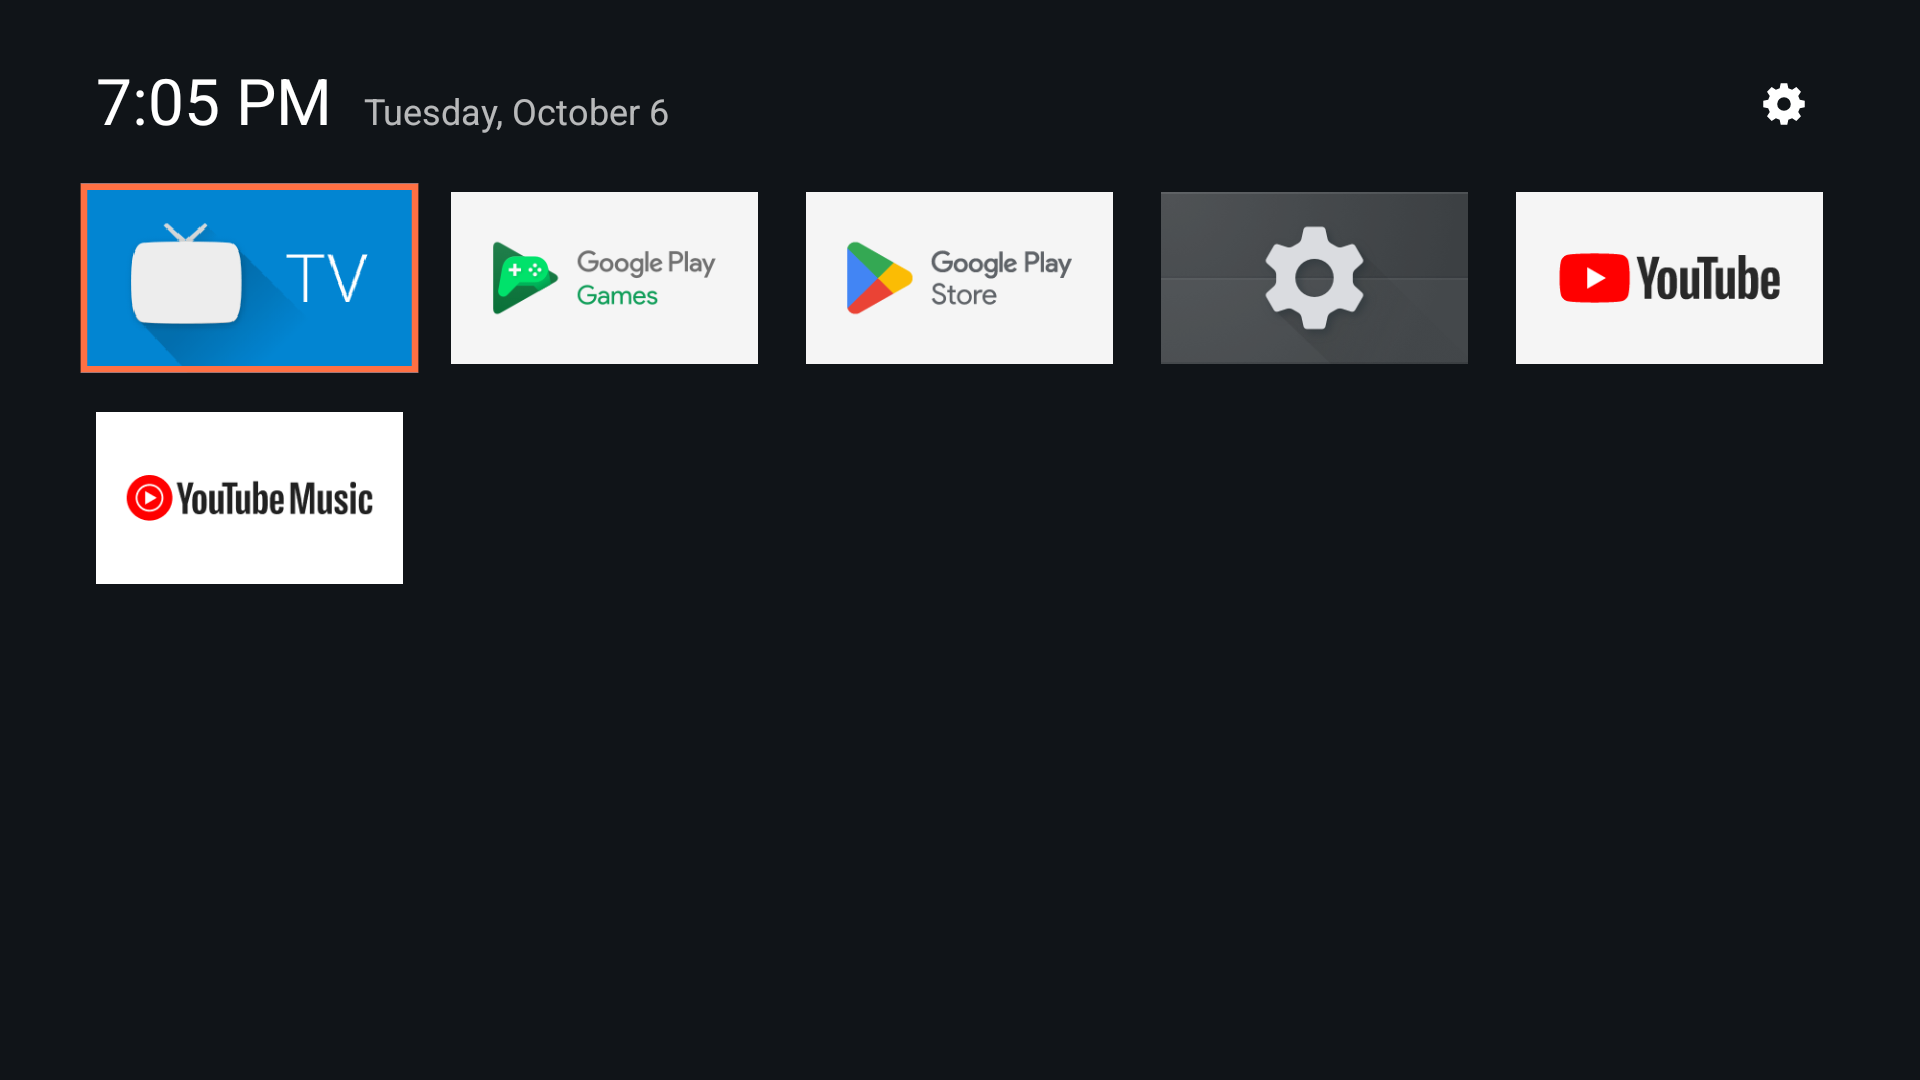
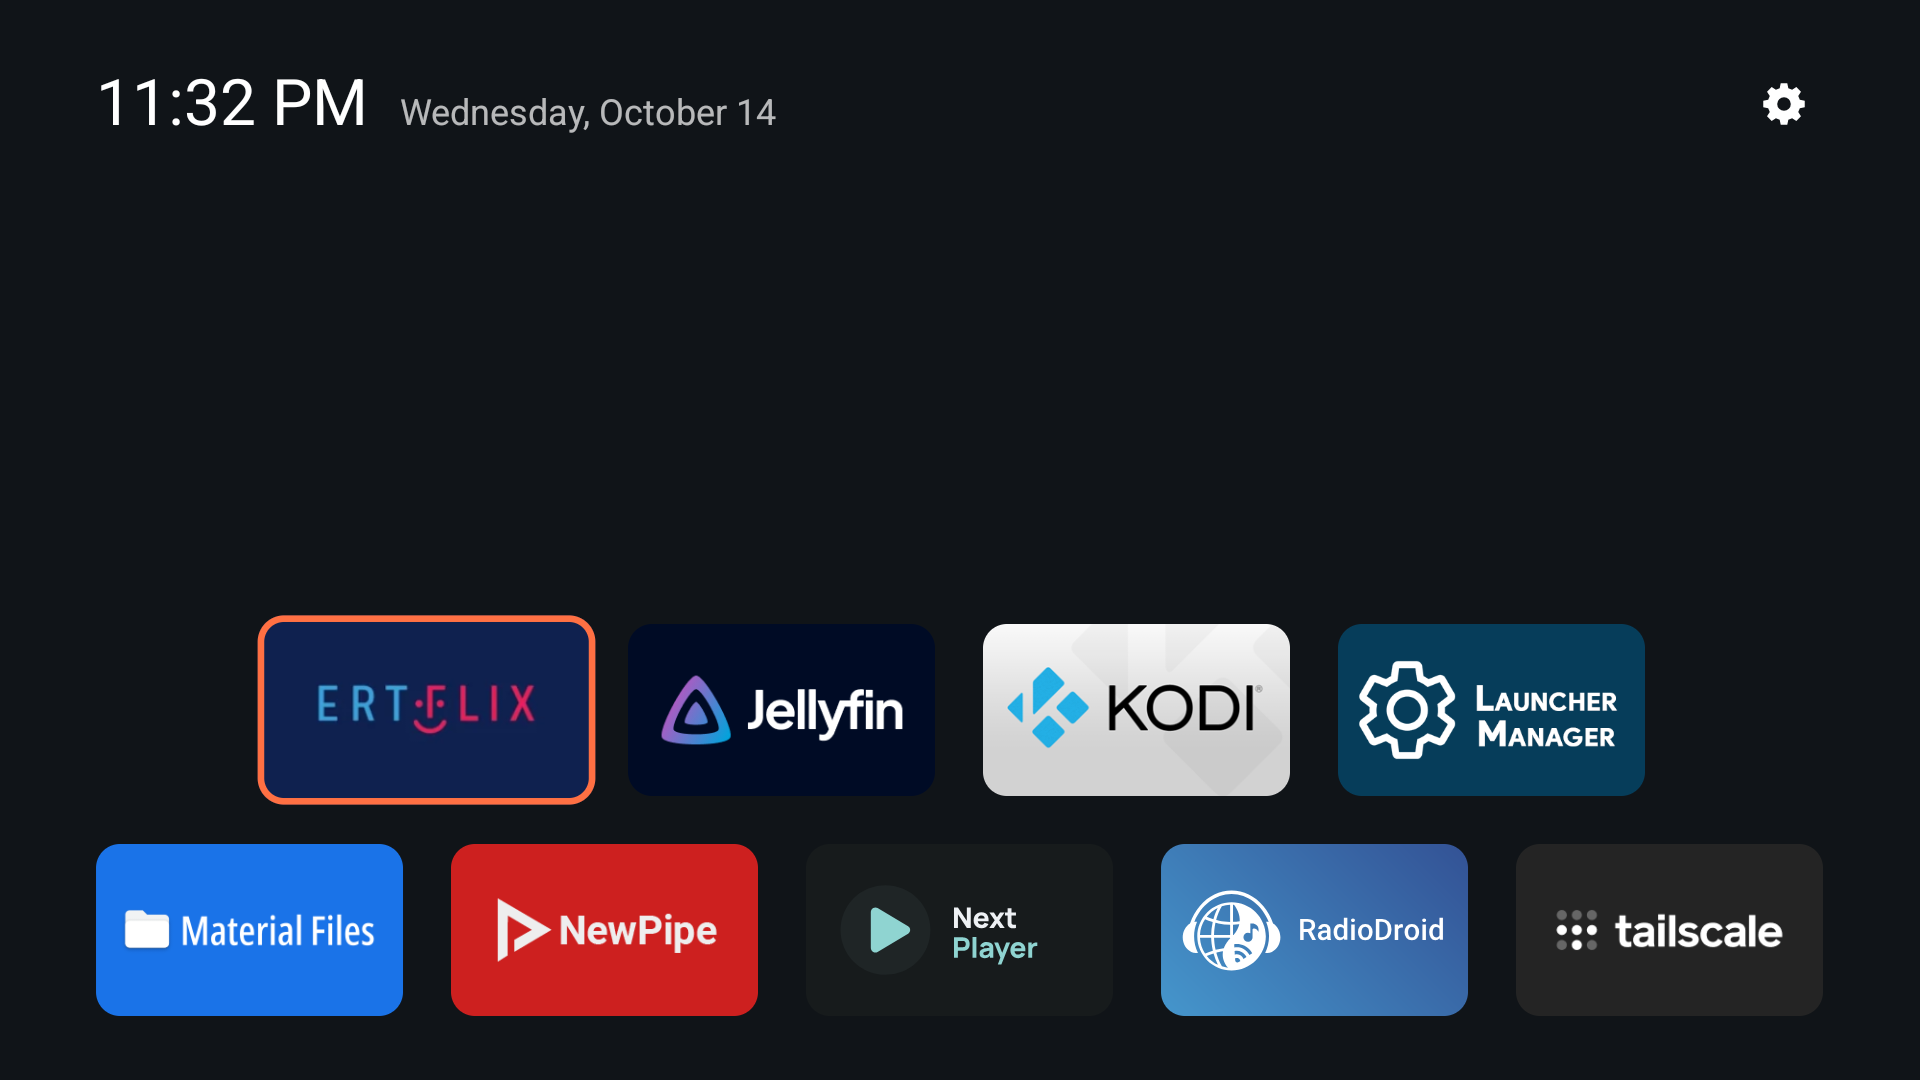
Prepare the 0.2.0 release: version, notes, store listing and new screenshots
Version 0.2.0 (versionCode 2000) ships the appearance editor, the new default look with the
tiles centered at the bottom, and apps that show up on the home screen as soon as they're
installed, updated, removed or hidden.

- The release notes move to a folder per release, .github/release-notes/vX.Y.Z/notes.md, so
  their images sit next to them. The notes link the images by their full address at the
  release's tag, as a release page doesn't resolve relative paths. The release workflow,
  docs/RELEASING.md and docs/README.md use the new path; v0.1.0's notes moved unchanged.
- 0.2.0's notes describe each Tiles and Status bar option, with a screenshot of each group.
- The store listing's short and full descriptions now match the README's: the features, those
  on the way, and the design principles. The changelog for 2000 lists the release's three
  changes in 299 characters.
- The screenshots show the new default layout on the gtv_api36 emulator, with nine apps (five
  in the bottom row, four above): the home screen, arrange mode, the settings panel, and
  Appearance with Tiles open. The screenshot of an app moved onto the hidden shelf and the one
  of Hide apps are dropped, so the listing and the README show the same four.
  fastlane/README.md says how they were taken and which apps were installed for them.
- The README's APK badge reads ~98 KB: the unsigned release APK is 83,924 bytes, and signed
[…]

diff --git a/docs/RELEASING.md b/docs/RELEASING.md
@@ -71,7 +71,7 @@ dependencies, and it has no token that can change the repository.
    - The version's changes in the store listing, as
      `fastlane/metadata/android/en-US/changelogs/<versionCode>.txt`
      ([`fastlane/`](../fastlane/README.md)).
-   - The release's notes, in `.github/release-notes/v1.2.3.md` ([Release notes](#release-notes)).
+   - The release's notes, in `.github/release-notes/v1.2.3/notes.md` ([Release notes](#release-notes)).
    - **Wherever Luncher is described to its users, what the release changes:** a new or changed
      feature, setting or requirement. In the [root README](../README.md): its features (one that
      ships moves up from "On the way"), what Luncher runs on, and how to install it. In
@@ -104,9 +104,12 @@ commit the new run releases.
 
 ## Release notes
 
-Each release's notes are written in `.github/release-notes/vX.Y.Z.md`, in the commit that raises
-the version, and are the start of the release's page on GitHub. They are Markdown, for the people
-reading the Releases page: a "What's new" section, and "Fixes" when there are any. The workflow
+Each release's notes are written in `.github/release-notes/vX.Y.Z/notes.md`, in the commit that
+raises the version, and are the start of the release's page on GitHub. They are Markdown, for the
+people reading the Releases page: a "What's new" section, and "Fixes" when there are any. Their
+images go in the same folder, linked by their full address at the release's tag, e.g.
+`https://github.com/CVasilakis/luncher/raw/v1.2.3/.github/release-notes/v1.2.3/shot.png`: a
+release's page doesn't resolve a relative path. The workflow
 adds two sections of its own after them, the same in every release: how to install the APK, and
 both checksums (the APK's, and the signing certificate's that `apksigner verify --print-certs`
 shows). The store listing's changelog, `changelogs/<versionCode>.txt`, is a separate, shorter text

diff --git a/fastlane/README.md b/fastlane/README.md
@@ -3,7 +3,7 @@
 Luncher's store listing: its name, descriptions, the changes of each version, and its images.
 F-Droid shows it on Luncher's page, reading it from the repository at each release's tag; Google
 Play takes the same files, uploaded by hand or with fastlane's `supply`. The root
-[`README.md`](../README.md) shows the first four screenshots too, under a wider cut of the feature
+[`README.md`](../README.md) shows the same screenshots too, under a wider cut of the feature
 graphic ([below](#icon-banner-and-feature-graphic)). Nothing
 here is part of the build.
 
@@ -63,16 +63,18 @@ the `NOTICE`.
 
 ## Screenshots
 
-Taken on the `tv_api36` emulator in English, of a release build, which carries Luncher's own name
-(a debug build is labeled "Luncher (debug)"), with the debug build disabled so that it doesn't
-appear among the apps. The apps shown are the emulator's own; their banners belong to their
-owners.
+Taken on the `gtv_api36` emulator (Google TV, the newest system) in English, of a release build
+(`assembleRelease`, signed with the debug key to install it), which carries Luncher's own name (a
+debug build is labeled "Luncher (debug)"), with the debug build uninstalled so that it doesn't
+appear among the apps. Luncher's appearance settings are at their defaults. The emulator's own apps
+are turned off (`pm disable-user`), and nine others installed so that they fill the default layout
+(five in the bottom row, four above): ERTFLIX, Jellyfin, Kodi, Launcher Manager, Material Files,
+NewPipe, Next Player, RadioDroid and Tailscale. Their banners belong to their owners.
 
 1. The home screen.
 2. Arrange mode, holding an app.
-3. Arrange mode, the app moved onto the hidden shelf.
-4. The settings panel.
-5. Hide apps, with that app hidden.
+3. The settings panel.
+4. Appearance, with Tiles open.
 
 `screencap` saves PNGs with an alpha channel, which `convert` (ImageMagick) removes:
 

diff --git a/README.md b/README.md
@@ -8,7 +8,7 @@
   <a href="https://f-droid.org/packages/com.luncher.launcher/"><img src="https://img.shields.io/f-droid/v/com.luncher.launcher?logo=fdroid" alt="F-Droid version"></a>
   <a href="https://github.com/CVasilakis/luncher/releases/latest"><img src="https://img.shields.io/github/v/release/CVasilakis/luncher?logo=github" alt="GitHub release"></a>
   <img src="https://img.shields.io/badge/Android_TV-5.1%2B-3DDC84?logo=android&logoColor=white" alt="Android TV 5.1+">
-  <img src="https://img.shields.io/badge/APK-~86_KB-blue" alt="APK ~86 KB">
+  <img src="https://img.shields.io/badge/APK-~98_KB-blue" alt="APK ~98 KB">
 </p>
 
 It's made with performance in mind, to run smoothly even on old and weak Android TV devices, and still gives you plenty of customization options to shape it to your taste.
@@ -19,8 +19,8 @@ It's made with performance in mind, to run smoothly even on old and weak Android
 |---|---|
 | ![The home screen](fastlane/metadata/android/en-US/images/tvScreenshots/1.png) | ![Moving an app](fastlane/metadata/android/en-US/images/tvScreenshots/2.png) |
 | Your apps, the time and the date | Hold OK on an app to move it |
-| ![Hiding an app](fastlane/metadata/android/en-US/images/tvScreenshots/3.png) | ![The settings](fastlane/metadata/android/en-US/images/tvScreenshots/4.png) |
-| Move apps onto the shelf to hide them | Settings |
+| ![The settings](fastlane/metadata/android/en-US/images/tvScreenshots/3.png) | ![The appearance settings](fastlane/metadata/android/en-US/images/tvScreenshots/4.png) |
+| Settings | Choose where your apps sit and how round their corners are |
 
 ## Features
 

diff --git a/.github/release-notes/v0.2.0/notes.md b/.github/release-notes/v0.2.0/notes.md
@@ -1,0 +1,33 @@
+## What's new
+
+### Appearance settings
+
+Open the settings, then **Appearance**. A preview shows each change as you make it. A dimmed
+option has no effect with the current settings.
+
+![The Tiles options](https://github.com/CVasilakis/luncher/raw/v0.2.0/.github/release-notes/v0.2.0/tiles.png)
+
+**Tiles**
+
+- **Vertical alignment:** the rows of apps at the top, the center or the bottom of the screen.
+- **Horizontal alignment:** the row that isn't full at the left, the center or the right.
+- **Full bottom row:** keeps the bottom row full, with the shorter row above the others. Only
+  with the rows centered or at the bottom.
+- **Corner radius:** from square (0 dp) to 32 dp, or Pill for fully round ends.
+
+![The Status bar options](https://github.com/CVasilakis/luncher/raw/v0.2.0/.github/release-notes/v0.2.0/status-bar.png)
+
+**Status bar**
+
+- **Time** and **Date:** shown or hidden.
+- **Side:** the time and the date on the left or the right, the settings gear on the other side.
+- **Order:** the time or the date first. Only when both are shown.
+
+### A new default look
+
+The apps now start at the bottom of the screen, centered, with rounded corners.
+
+### Apps show up right away
+
+Apps you install, update or remove, and apps you hide or show in **Hide apps**, now show up on
+the home screen at once.

diff --git a/docs/README.md b/docs/README.md
@@ -47,7 +47,7 @@ How the docs are written and kept up to date: [below](#writing-the-docs). Coding
 | [`docs/`](README.md) | Project-wide guides: building, architecture, testing, emulators, releasing; an archive of how the design was reached; and the root README's banner, in `images/` ([how it's made](../fastlane/README.md#icon-banner-and-feature-graphic)). |
 | [`fastlane/`](../fastlane/README.md) | The store listing F-Droid and Google Play show: name, descriptions, changes per version, screenshots (not part of the build). |
 | `.github/workflows/` | GitHub Actions workflows that run the tests ([`TESTING.md`](TESTING.md#in-ci)) and make releases ([`RELEASING.md`](RELEASING.md)). |
-| `.github/release-notes/` | Each release's notes on GitHub, `vX.Y.Z.md` ([`RELEASING.md`](RELEASING.md#release-notes)). |
+| `.github/release-notes/` | Each release's notes on GitHub and their images, in `vX.Y.Z/notes.md` ([`RELEASING.md`](RELEASING.md#release-notes)). |
 | [`AGENTS.md`](../AGENTS.md) | What coding agents need on top of these docs. |
 | `build.gradle.kts`, `settings.gradle.kts`, `gradle.properties`, `gradlew*` | Standard Gradle project files. |
 | `lint.xml` | Lint's exceptions for every module ([`TESTING.md`](TESTING.md#lint-and-compiler-warnings)). |
